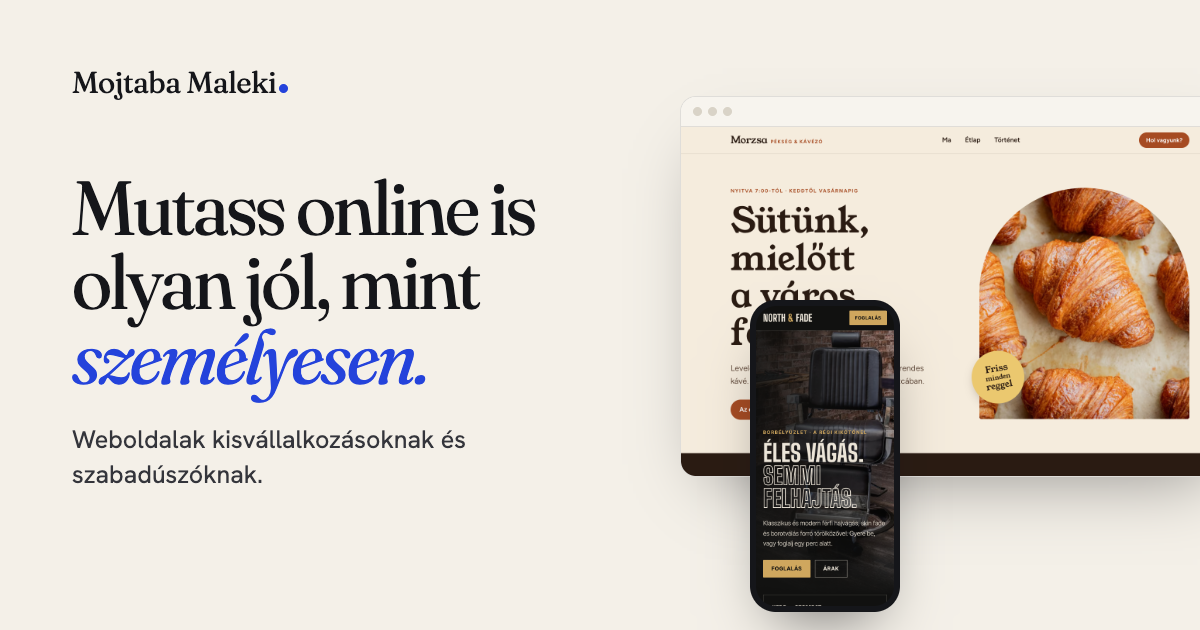
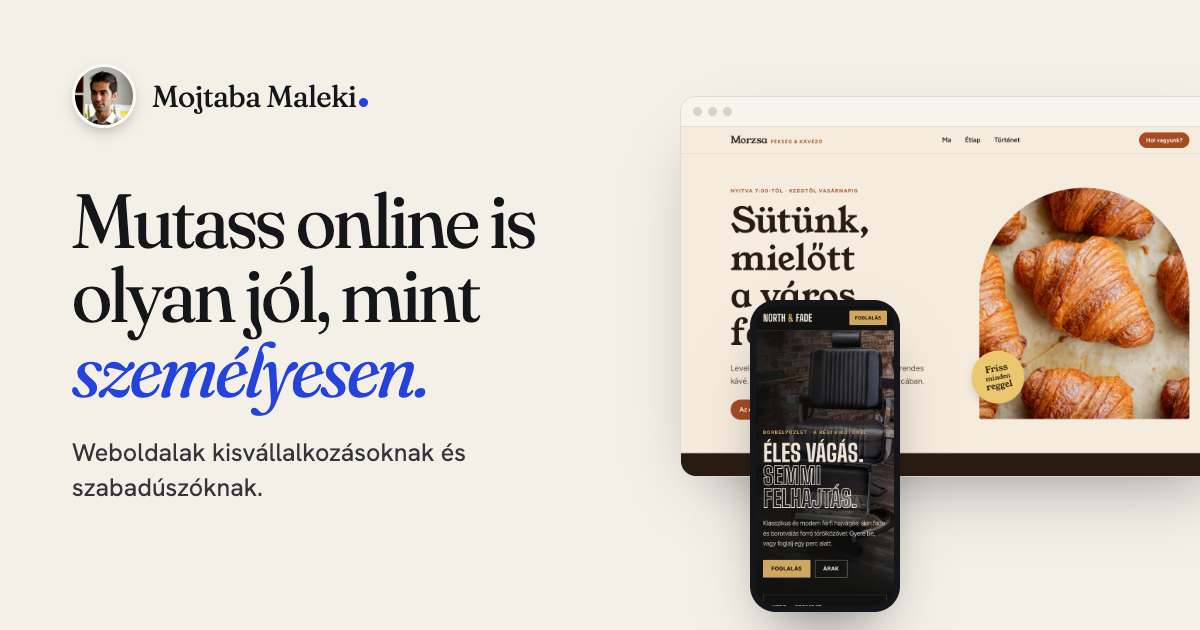
Add Mojtaba's photos to hero, About and contact
Cropped and lightly graded two event photos into a portrait, a
presenting shot and a face crop. Adds a name/avatar chip to the hero,
a portrait and presenting photo to About, an avatar in the contact
section, and the avatar to both link-preview images.

Changed region(s): [[0.0617, 0.2714, 0.4625, 0.7841], [0.0617, 0.0905, 0.3083, 0.2111]]

diff --git a/src/data/portrait.ts b/src/data/portrait.ts
@@ -1,7 +1,14 @@
 import type { ImageMetadata } from 'astro';
 
-// Mojtaba's own photo. Drop it in as src/assets/photos/me.jpg (or .jpeg/.png/.webp).
-// When no file is there, the About card falls back to the monogram design.
-const files = import.meta.glob<{ default: ImageMetadata }>('../assets/photos/me.{jpg,jpeg,png,webp}', { eager: true });
+// Mojtaba's own photos, cropped and lightly graded from event photos:
+//   me.jpg            main portrait (About card)
+//   me-face.jpg       tight face crop (avatars in the hero and contact section)
+//   me-presenting.jpg presenting at a screen (About)
+// Any of them may be missing; components fall back gracefully.
+const files = import.meta.glob<{ default: ImageMetadata }>('../assets/photos/me*.{jpg,jpeg,png,webp}', { eager: true });
+const pick = (name: string) =>
+  Object.entries(files).find(([path]) => /\/(me[\w-]*)\.\w+$/.exec(path)?.[1] === name)?.[1].default;
 
-export const portrait: ImageMetadata | undefined = Object.values(files)[0]?.default;
+export const portrait: ImageMetadata | undefined = pick('me');
+export const face: ImageMetadata | undefined = pick('me-face') ?? portrait;
+export const presenting: ImageMetadata | undefined = pick('me-presenting');

diff --git a/src/i18n/ui.ts b/src/i18n/ui.ts
@@ -85,7 +85,8 @@ const en = {
       { title: 'Careful', text: 'An engineer’s eye for detail.' },
     ],
     factsLabel: 'Quick facts about Mojtaba',
-    photoAlt: 'Portrait of Mojtaba Maleki',
+    photoAlt: 'Mojtaba Maleki talking with a small group',
+    presentingAlt: 'Mojtaba presenting a project on a large screen',
     facts: [
       ['Day job', 'Software engineer, The IT Solutions'],
       ['Studied', 'Computer Science, University of Debrecen'],
@@ -243,7 +244,8 @@ const hu: Dict = {
       { title: 'Precíz', text: 'Mérnöki figyelem a részletekre.' },
     ],
     factsLabel: 'Röviden Mojtabáról',
-    photoAlt: 'Mojtaba Maleki portréja',
+    photoAlt: 'Mojtaba Maleki egy kisebb csoporthoz beszél',
+    presentingAlt: 'Mojtaba egy projektet mutat be egy nagy képernyőn',
     facts: [
       ['Munkahely', 'Szoftvermérnök, The IT Solutions'],
       ['Tanulmányok', 'Informatika, Debreceni Egyetem'],
